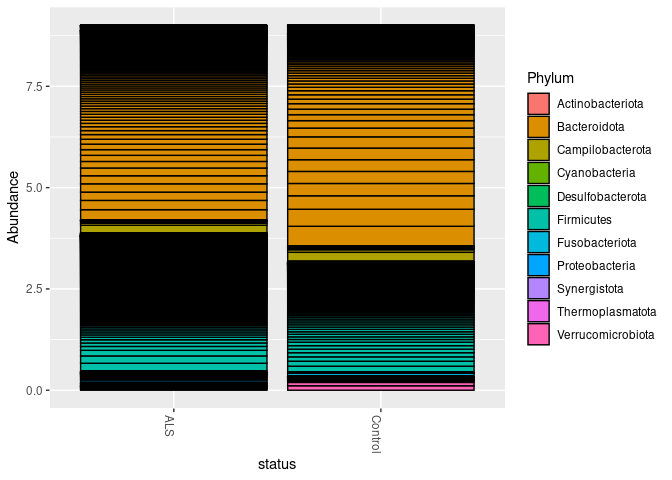
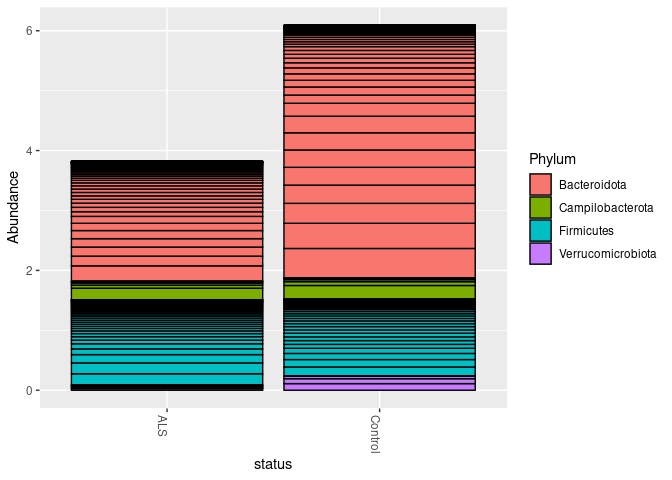
Minor update

diff --git a/ALS.md b/ALS.md
@@ -17,12 +17,15 @@ Microbiome of Amyotrophic Lateral Sclerosis (ALS) using 16S rRNA
     -   [Merge Paired Reads](#merge-paired-reads)
 -   [Construct Sequence Table](#construct-sequence-table)
 -   [Removal of Chimeras](#removal-of-chimeras)
--   [Track reads through the
-    pipeline](#track-reads-through-the-pipeline)
+    -   [Track reads through the
+        pipeline](#track-reads-through-the-pipeline)
 -   [Taxonomic Classification](#taxonomic-classification)
-    -   [Assign taxonomy](#assign-taxonomy)
--   [Handoff to phyloseq](#handoff-to-phyloseq)
+    -   [Assign Taxonomy](#assign-taxonomy)
+    -   [Assign Species](#assign-species)
+    -   [Digest ASVs](#digest-asvs)
+-   [Phyloseq](#phyloseq)
     -   [Import into phyloseq:](#import-into-phyloseq)
+    -   [Ordinate:](#ordinate)
     -   [Bar plot](#bar-plot)
 
 <div align="center">
@@ -659,7 +662,7 @@ dim(seqtab.nochim)
 (non-chimeric) ASVs (overall; not only the unique) after the removal the
 bimeras is 99%
 
-## Track reads through the pipeline
+### Track reads through the pipeline
 
 As a final check of our progress, we’ll look at the number of reads that
 made it through each step in the pipeline:
@@ -696,40 +699,30 @@ head(track)
 Looks good! We kept the majority of our raw reads, and there is no
 over-large drop associated with any single step.
 
-*Considerations for your own data:* This is a great place to do a last
-**sanity check**. Outside of filtering, there should no step in which a
-majority of reads are lost. If a majority of reads failed to merge, you
-may need to revisit the `truncLen` parameter used in the filtering step
-and make sure that the truncated reads span your amplicon. If a majority
-of reads were removed as chimeric, you may need to revisit the removal
-of primers, as the ambiguous nucleotides in unremoved primers interfere
-with chimera identification.
+## Taxonomic Classification
 
-# Taxonomic Classification
+### Assign Taxonomy
 
-## Assign taxonomy
-
-It is common at this point, especially in 16S/18S/ITS amplicon
-sequencing, to assign taxonomy to the sequence variants. The DADA2
-package provides a native implementation of the [naive Bayesian
-classifier method](http://www.ncbi.nlm.nih.gov/pubmed/17586664) for this
-purpose. The `assignTaxonomy` function takes as input a set of sequences
-to be classified and a training set of reference sequences with known
-taxonomy, and outputs taxonomic assignments with at least `minBoot`
-bootstrap confidence.
-
-We maintain [formatted training fastas for the RDP training set,
-GreenGenes clustered at 97% identity, and the Silva reference
-database](https://benjjneb.github.io/dada2/training.html), and
-additional trainings fastas suitable for protists and certain specific
-environments have been contributed. For fungal taxonomy, the General
-Fasta release files from the [UNITE ITS
-database](https://unite.ut.ee/repository.php) can be used as is. To
-follow along, download the `silva_nr_v138_train_set.fa.gz` file, and
-place it in the directory with the fastq files.
+Using the [Naïve Bayesian
+Classifier](http://www.ncbi.nlm.nih.gov/pubmed/17586664) algorithm,
+**DADA2** assigns taxonomic classification to the sequence variants with
+the
+[`assignTaxonomy`](https://rdrr.io/bioc/dada2/man/assignTaxonomy.html)
+method, which takes also as input the reference formatted FASTA
+sequence. A copy of the SILVA train set is located under the
+`data/silva` subfolder, which can also be downloaded from here
+<a href="https://doi.org/10.5281/zenodo.3986799"><img src="https://zenodo.org/badge/DOI/10.5281/zenodo.3986799.svg" alt="DOI"></a>
 
 ``` r
-taxa = assignTaxonomy(seqtab.nochim, "data/silva/silva_nr99_v138_train_set.fa.gz", multithread=TRUE)
+taxa = assignTaxonomy(seqtab.nochim,
+                      "data/silva/silva_nr99_v138_train_set.fa.gz", 
+                      multithread = TRUE,
+                      verbose = TRUE)
+```
+
+    ## Finished processing reference fasta.
+
+``` r
 head(taxa)
 ```
 
@@ -742,19 +735,13 @@ head(taxa)
 | TACGTAAGGGGCGAGCGTTGTCCGGAATTATTGGGCGTAAAGAGTGCGTAGGCGGCAAATTAAGTCAGATGTGAAAACTAAGGGCTCAACCCATAGATTGCATCTGAAACTGATATGCTTGAGTCAAGGAGAGGAAAGTGGAATTCCTAGTGTAGCGGTGGAATGCGTAGATATTAGGAGGAATACCGGTGGCGAAGGCGACTTTCTGGACTTGAACTGACGCTGAGGCACGAAAGCGTGGGGAGCAAACAGG | Bacteria | Firmicutes       | Clostridia      | Peptostreptococcales-Tissierellales | Fenollaria         | NA            |
 | TACGGAGGGTGCAAGCGTTACTCGGAATCACTGGGCGTAAAGGGTGCGTAGGTGGATTATCAAGTCTCTTGTGAAATCTAATAGCTTAACTATTAAATTGCTTGGGAAACTGATAGTCTAGAGTAGGGGAGAGGCAGATGGAACTCTTGGTGTAGGAGTAAAATCCGTAGATATCAAGAAGAATACCTATTGCGAAAGCGATCTGCTAGAACCTAACTGACACTGATGCACGAAAGCGTGGGGAGCAAACAGG | Bacteria | Campilobacterota | Campylobacteria | Campylobacterales                   | Campylobacteraceae | Campylobacter |
 
-*Extensions*: The dada2 package also implements a method to make
-[species level assignments based on exact
-matching](https://benjjneb.github.io/dada2/assign.html#species-assignment)
-between ASVs and sequenced reference strains. Recent analysis suggests
-that [exact matching (or 100% identity) is the only appropriate way to
-assign species to 16S gene
-fragments](https://academic.oup.com/bioinformatics/advance-article-abstract/doi/10.1093/bioinformatics/bty113/4913809).
-Currently, [species-assignment training fastas are available for the
-Silva and RDP 16S
-databases](https://benjjneb.github.io/dada2/training.html). To follow
-the optional species addition step, download the
-`silva_species_assignment_v138.fa.gz` file, and place it in the
-directory with the fastq files.
+### Assign Species
+
+In additional to above taxonomic classification, *DADA2* can also assign
+on the species-level through the
+[`addSpecies`](https://rdrr.io/bioc/dada2/man/addSpecies.html) method,
+which takes the above computed taxonomic table `taxa` and the reference
+FASTA file (`data/silva/silva_species_assignment_v138.fa.gz`).
 
 ``` r
 taxa = addSpecies(taxa, "data/silva/silva_species_assignment_v138.fa.gz")
@@ -769,6 +756,14 @@ head(taxa)
 | TACGGAAGGTCCAGGCGTTATCCGGATTTATTGGGTTTAAAGGGAGTGTAGGCGGTTGGTTAAGCGTGTTGTGAAATGTAGATGCTCAACATCTGACTTGCAGCGCGAACTGGCTGACTTGAGTACACACAACGTAGGCGGAATTCATGGTGTAGCGGTGAAATGCTTAGATATCATGAAGAACTCCGATTGCGAAGGCAGCTTACGGGAGTGTTACTGACGCTTAAGCTCGAAGGTGCGGGTATCGAACAGG | Bacteria | Bacteroidota     | Bacteroidia     | Bacteroidales                       | Prevotellaceae     | Prevotella    | disiens  |
 | TACGTAAGGGGCGAGCGTTGTCCGGAATTATTGGGCGTAAAGAGTGCGTAGGCGGCAAATTAAGTCAGATGTGAAAACTAAGGGCTCAACCCATAGATTGCATCTGAAACTGATATGCTTGAGTCAAGGAGAGGAAAGTGGAATTCCTAGTGTAGCGGTGGAATGCGTAGATATTAGGAGGAATACCGGTGGCGAAGGCGACTTTCTGGACTTGAACTGACGCTGAGGCACGAAAGCGTGGGGAGCAAACAGG | Bacteria | Firmicutes       | Clostridia      | Peptostreptococcales-Tissierellales | Fenollaria         | NA            | NA       |
 | TACGGAGGGTGCAAGCGTTACTCGGAATCACTGGGCGTAAAGGGTGCGTAGGTGGATTATCAAGTCTCTTGTGAAATCTAATAGCTTAACTATTAAATTGCTTGGGAAACTGATAGTCTAGAGTAGGGGAGAGGCAGATGGAACTCTTGGTGTAGGAGTAAAATCCGTAGATATCAAGAAGAATACCTATTGCGAAAGCGATCTGCTAGAACCTAACTGACACTGATGCACGAAAGCGTGGGGAGCAAACAGG | Bacteria | Campilobacterota | Campylobacteria | Campylobacterales                   | Campylobacteraceae | Campylobacter | hominis  |
+
+### Digest ASVs
+
+The following is only to convert the ASVs (the actual sequences) into a
+cryptographical hash using the [`digest`](https://rdrr.io/cran/digest/)
+method, which by default uses the [MD5
+message-digest](https://en.wikipedia.org/wiki/MD5) algorithm -*This is
+entirely an option step*
 
 ``` r
 md5 = lapply(colnames(seqtab.nochim), digest)
@@ -798,39 +793,7 @@ head(taxa)
 | 977091fc9d08b0b43c99857ca9976e72 | Bacteria | Firmicutes       | Clostridia      | Peptostreptococcales-Tissierellales | Fenollaria         | NA            | NA       |
 | e41846b638aa4b7eb2728408abf3700b | Bacteria | Campilobacterota | Campylobacteria | Campylobacterales                   | Campylobacteraceae | Campylobacter | hominis  |
 
-Let’s inspect the taxonomic assignments:
-
-``` r
-taxa.print = taxa # Removing sequence rownames for display only
-rownames(taxa.print) = NULL
-head(taxa.print)
-```
-
-| Kingdom  | Phylum           | Class           | Order                               | Family             | Genus         | Species  |
-|:---------|:-----------------|:----------------|:------------------------------------|:-------------------|:--------------|:---------|
-| Bacteria | Bacteroidota     | Bacteroidia     | Bacteroidales                       | Prevotellaceae     | Prevotella    | NA       |
-| Bacteria | Bacteroidota     | Bacteroidia     | Bacteroidales                       | Prevotellaceae     | Prevotella    | corporis |
-| Bacteria | Firmicutes       | Clostridia      | Peptostreptococcales-Tissierellales | Finegoldia         | NA            | NA       |
-| Bacteria | Bacteroidota     | Bacteroidia     | Bacteroidales                       | Prevotellaceae     | Prevotella    | disiens  |
-| Bacteria | Firmicutes       | Clostridia      | Peptostreptococcales-Tissierellales | Fenollaria         | NA            | NA       |
-| Bacteria | Campilobacterota | Campylobacteria | Campylobacterales                   | Campylobacteraceae | Campylobacter | hominis  |
-
-Unsurprisingly, the Bacteroidetes are well represented among the most
-abundant taxa in these fecal samples. Few species assignments were made,
-both because it is often not possible to make unambiguous species
-assignments from subsegments of the 16S gene, and because there is
-surprisingly little coverage of the indigenous mouse gut microbiota in
-reference databases.
-
-*Considerations for your own data:* If your reads do not seem to be
-appropriately assigned, for example lots of your bacterial 16S sequences
-are being assigned as `Eukaryota NA NA NA NA NA`, your reads may be in
-the opposite orientation as the reference database. Tell dada2 to try
-the reverse-complement orientation with
-`assignTaxonomy(..., tryRC=TRUE)` and see if this fixes the assignments.
-If using DECIPHER for taxonomy, try `IdTaxa (..., strand="both")`.
-
-# Handoff to phyloseq
+## Phyloseq
 
 The phyloseq R package is a powerful framework for further analysis of
 microbiome data. We now demonstrate how to straightforwardly import the
@@ -839,7 +802,7 @@ small amount of metadata we have – the samples are named by the gender
 (G), mouse subject number (X) and the day post-weaning (Y) it was
 sampled (eg. GXDY).
 
-## Import into phyloseq:
+### Import into phyloseq:
 
 We can construct a simple sample data.frame from the information encoded
 in the filenames. Usually this step would instead involve reading the
@@ -899,10 +862,10 @@ plot_richness(ps, x="status", measures=c("Shannon", "Simpson"), color = "pair")
     ## 
     ## We recommended that you find the un-trimmed data and retry.
 
-![](ALS_files/figure-gfm/unnamed-chunk-33-1.png)<!-- -->
+![](ALS_files/figure-gfm/unnamed-chunk-32-1.png)<!-- -->
 
-No obvious systematic difference in alpha-diversity between early and
-late samples.
+There are some differences in alpha-diversity between early and late
+samples.
 
 ``` r
 ps_rank = transform_sample_counts(ps, threshrankfun(50))
@@ -910,58 +873,55 @@ ps_log = transform_sample_counts(ps, log)
 ps_norm = transform_sample_counts(ps, function(x) x / sum(x))
 ```
 
-Ordinate: Transform data to proportions as appropriate for Bray-Curtis
-distances
+### Ordinate:
+
+Transform data to proportions as appropriate for Bray-Curtis distances
 
 ``` r
 ord.nmds.bray = ordinate(ps_norm, method="NMDS", distance="bray")
 ```
 
     ## Run 0 stress 0.1867397 
-    ## Run 1 stress 0.2626593 
-    ## Run 2 stress 0.1889447 
-    ## Run 3 stress 0.1693983 
+    ## Run 1 stress 0.1679988 
     ## ... New best solution
-    ## ... Procrustes: rmse 0.1890089  max resid 0.6457535 
-    ## Run 4 stress 0.1834112 
-    ## Run 5 stress 0.1677133 
+    ## ... Procrustes: rmse 0.1811313  max resid 0.6578552 
+    ## Run 2 stress 0.1885589 
+    ## Run 3 stress 0.1766461 
+    ## Run 4 stress 0.1677132 
     ## ... New best solution
-    ## ... Procrustes: rmse 0.06754542  max resid 0.1806388 
-    ## Run 6 stress 0.1693974 
-    ## Run 7 stress 0.1677132 
-    ## ... New best solution
-    ## ... Procrustes: rmse 0.0001367247  max resid 0.0004775398 
+    ## ... Procrustes: rmse 0.01850959  max resid 0.06081677 
+    ## Run 5 stress 0.1774542 
+    ## Run 6 stress 0.1677134 
+    ## ... Procrustes: rmse 0.0003931675  max resid 0.001382532 
     ## ... Similar to previous best
-    ## Run 8 stress 0.1677132 
-    ## ... Procrustes: rmse 0.0002202005  max resid 0.0007731691 
+    ## Run 7 stress 0.1693973 
+    ## Run 8 stress 0.1677135 
+    ## ... Procrustes: rmse 0.0003348949  max resid 0.001169776 
     ## ... Similar to previous best
-    ## Run 9 stress 0.1978798 
-    ## Run 10 stress 0.183413 
+    ## Run 9 stress 0.1807519 
+    ## Run 10 stress 0.1826301 
     ## Run 11 stress 0.1885589 
-    ## Run 12 stress 0.1679988 
-    ## ... Procrustes: rmse 0.01861325  max resid 0.06117419 
-    ## Run 13 stress 0.1834124 
-    ## Run 14 stress 0.1693584 
-    ## Run 15 stress 0.1677136 
-    ## ... Procrustes: rmse 0.0003720208  max resid 0.001303047 
-    ## ... Similar to previous best
-    ## Run 16 stress 0.1808859 
-    ## Run 17 stress 0.1693975 
-    ## Run 18 stress 0.1808856 
-    ## Run 19 stress 0.1882396 
-    ## Run 20 stress 0.1921666 
+    ## Run 12 stress 0.1828827 
+    ## Run 13 stress 0.1693584 
+    ## Run 14 stress 0.1693975 
+    ## Run 15 stress 0.1808856 
+    ## Run 16 stress 0.1867397 
+    ## Run 17 stress 0.1766461 
+    ## Run 18 stress 0.1826302 
+    ## Run 19 stress 0.1754069 
+    ## Run 20 stress 0.1892393 
     ## *** Solution reached
 
 ``` r
 plot_ordination(ps, ord.nmds.bray, color="status", title="Bray NMDS") + geom_point(size = 3)
 ```
 
-![](ALS_files/figure-gfm/unnamed-chunk-35-1.png)<!-- -->
+![](ALS_files/figure-gfm/unnamed-chunk-34-1.png)<!-- -->
 
 Ordination picks out a clear separation between the early and late
 samples.
 
-## Bar plot
+### Bar plot
 
 ``` r
 ps
@@ -987,13 +947,7 @@ ps_filtered
 plot_bar(ps_filtered, x="status", fill="Phylum") + geom_bar(aes(fill=Phylum), stat="identity", position="stack", color = "white")
 ```
 
-![](ALS_files/figure-gfm/unnamed-chunk-37-1.png)<!-- -->
-
-``` r
-plot_bar(ps_norm, x="status", fill="Phylum")
-```
-
-![](ALS_files/figure-gfm/unnamed-chunk-38-1.png)<!-- -->
+![](ALS_files/figure-gfm/unnamed-chunk-36-1.png)<!-- -->
 
 Normalize number of reads in each sample using median sequencing depth.
 
@@ -1017,4 +971,4 @@ ps.top20 = prune_taxa(top20, ps.top20)
 plot_bar(ps.top20, x="status", fill="Phylum")
 ```
 
-![](ALS_files/figure-gfm/unnamed-chunk-40-1.png)<!-- -->
+![](ALS_files/figure-gfm/unnamed-chunk-38-1.png)<!-- -->
